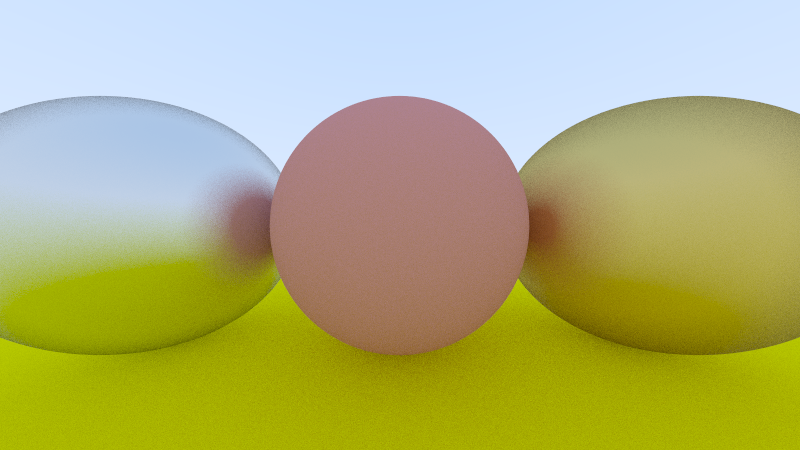
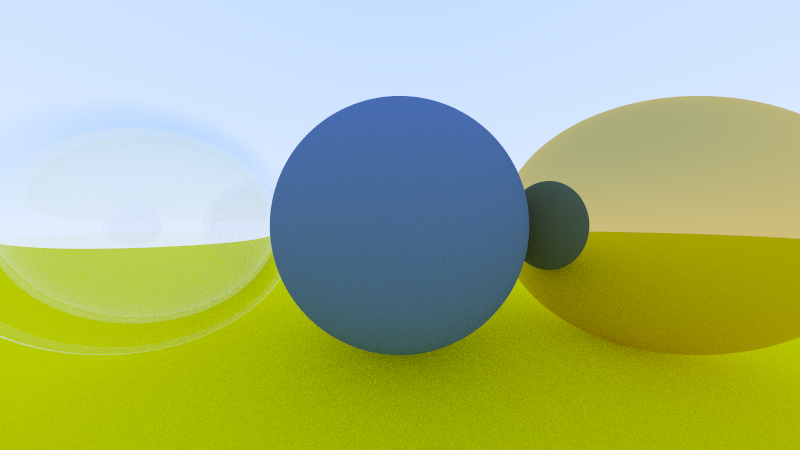
Add a generic dielectric material

diff --git a/src/materials/dielectric.rs b/src/materials/dielectric.rs
@@ -1,0 +1,92 @@
+use super::{Color, Material};
+use crate::surfaces::Intersection;
+use crate::types::{Ray, Vect3};
+use rand::{thread_rng, Rng};
+use rand_distr::Uniform;
+
+fn refract(incident: Vect3, normal: Vect3, ratio: f32) -> Vect3 {
+    let cos_theta = incident.dot(-normal).min(1.0);
+    if cos_theta < 0.0 {
+        refract(incident, -normal, ratio.recip())
+    } else {
+        let sin_theta = (1.0 - cos_theta * cos_theta).sqrt();
+        let reflection = incident - 2.0 * incident.dot(normal) * normal;
+        let orthogonal = ratio * (incident + cos_theta * normal);
+        let parallel = -(1.0 - orthogonal.dot(orthogonal)).abs().sqrt() * normal;
+        let refraction = orthogonal + parallel;
+        let reflectance = {
+            // Schlick's approximation
+            let r0 = (1.0 - ratio) / (1.0 + ratio);
+            (r0 * r0) + (1.0 - r0 * r0) * (1.0 - cos_theta).powi(5)
+        };
+        let mut rng = thread_rng();
+        if (ratio * sin_theta > 1.0) || (reflectance > rng.sample(Uniform::new(0.0, 1.0))) {
+            reflection
+        } else {
+            refraction
+        }
+    }
+}
+
+/// A reflective metal-like material.
+#[derive(Debug, Clone, Copy)]
+pub struct Dielectric {
+    attenuation: Color,
+    refraction: f32,
+}
+
+impl Dielectric {
+    /// Construct a metal material with a given attenuation.
+    pub fn new(color: Color, refraction: f32) -> Dielectric {
+        Dielectric {
+            attenuation: color,
+            refraction,
+        }
+    }
+}
+
+impl Material for Dielectric {
+    fn scatter_at(&self, ray: &Ray, intersection: &Intersection) -> Vec<(Ray, Color)> {
+        let normal = intersection.normal();
+        let incident = ray.direction();
+        let ratio = self.refraction.recip();
+        let refracted = refract(incident, normal, ratio);
+        vec![(Ray::new(intersection.point(), refracted), self.attenuation)]
+    }
+}
+
+#[cfg(test)]
+mod test {
+    use super::*;
+    use approx::assert_abs_diff_eq;
+    use pretty_assertions::assert_eq;
+
+    #[test]
+    fn test_refraction_0_deg() {
+        let incident = Vect3(0.0, 0.0, 1.0);
+        let normal = Vect3(0.0, 0.0, -1.0);
+        let ratio = 2.0_f32.sqrt();
+
+        let result = refract(incident, normal, ratio);
+        assert_eq!(result, Vect3(0.0, 0.0, 1.0));
+    }
+
+    #[test]
+    fn test_refraction_45_deg() {
+        let incident = Vect3(0.0, 1.0, 1.0).normalize();
+        let normal = Vect3(0.0, 0.0, -1.0);
+        let ratio_1 = 2.0_f32.sqrt();
+        let ratio_2 = 0.0_f32;
+        let ratio_3 = 0.9_f32;
+        let ratio_4 = 1.0_f32;
+
+        let result_1 = refract(incident, normal, ratio_1);
+        let result_2 = refract(incident, normal, ratio_2);
+        let result_3 = refract(incident, normal, ratio_3);
+        let result_4 = refract(incident, normal, ratio_4);
+        assert_abs_diff_eq!(result_1, Vect3(0.0, 1.0, 0.0), epsilon = 0.001);
+        assert_abs_diff_eq!(result_2, Vect3(0.0, 1.0, -1.0).normalize(), epsilon = 0.001);
+        assert_abs_diff_eq!(result_3, Vect3(0.0, 0.636396, 0.771362), epsilon = 0.001);
+        assert_abs_diff_eq!(result_4, incident, epsilon = 0.001);
+    }
+}

diff --git a/src/lib.rs b/src/lib.rs
@@ -10,7 +10,7 @@ mod types;
 
 use camera::Camera;
 pub use image::Image;
-use materials::{Color, Hemispherical, Lambertian, Metal};
+use materials::{Color, Dielectric, Hemispherical, Lambertian, Metal};
 use scene::{Object, Scene};
 use surfaces::Sphere;
 use types::{Point3, Vect3};
@@ -19,13 +19,20 @@ use types::{Point3, Vect3};
 pub fn get_scene() -> Scene {
     Scene {
         objects: vec![
-            // Left side metal sphere.
+            // Left side hollow dielectric sphere.
             Object {
                 surface: Box::new(Sphere {
                     center: Point3(-1.0, 0.0, -1.0),
                     radius: 0.5,
                 }),
-                material: Box::new(Metal::new(Color(0.8, 0.8, 0.8), 0.3)),
+                material: Box::new(Dielectric::new(Color(1.0, 1.0, 1.0), 1.5)),
+            },
+            Object {
+                surface: Box::new(Sphere {
+                    center: Point3(-1.0, 0.0, -1.0),
+                    radius: -0.4,
+                }),
+                material: Box::new(Dielectric::new(Color(1.0, 1.0, 1.0), 1.5)),
             },
             // Center diffuse sphere.
             Object {
@@ -33,7 +40,7 @@ pub fn get_scene() -> Scene {
                     center: Point3(0.0, 0.0, -1.0),
                     radius: 0.5,
                 }),
-                material: Box::new(Lambertian::new(Color(0.7, 0.3, 0.3))),
+                material: Box::new(Lambertian::new(Color(0.1, 0.2, 0.5))),
             },
             // Right side metal sphere.
             Object {
@@ -41,7 +48,7 @@ pub fn get_scene() -> Scene {
                     center: Point3(1.0, 0.0, -1.0),
                     radius: 0.5,
                 }),
-                material: Box::new(Metal::new(Color(0.8, 0.6, 0.2), 1.0)),
+                material: Box::new(Metal::new(Color(0.8, 0.6, 0.2), 0.0)),
             },
             // "Ground" sphere.
             Object {

diff --git a/src/materials/mod.rs b/src/materials/mod.rs
@@ -1,8 +1,10 @@
 /// Materials used to render surfaces.
+mod dielectric;
 mod diffuse;
 mod reflective;
 
 // Exports.
+pub use dielectric::Dielectric;
 pub use diffuse::{Hemispherical, Lambertian};
 pub use reflective::Metal;
 
